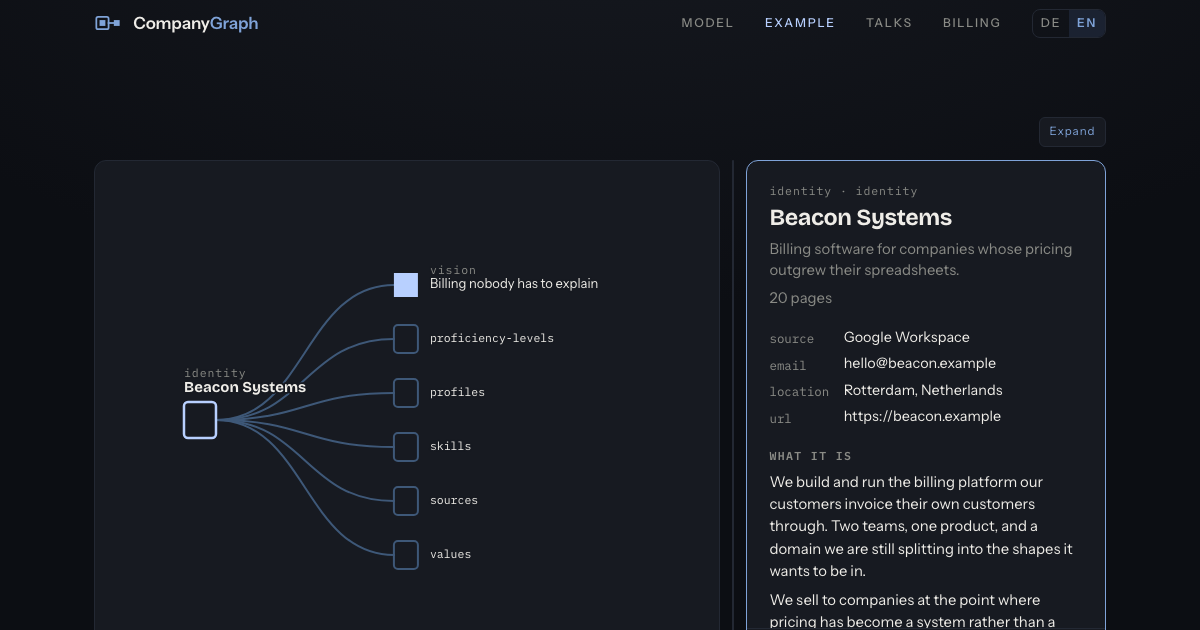
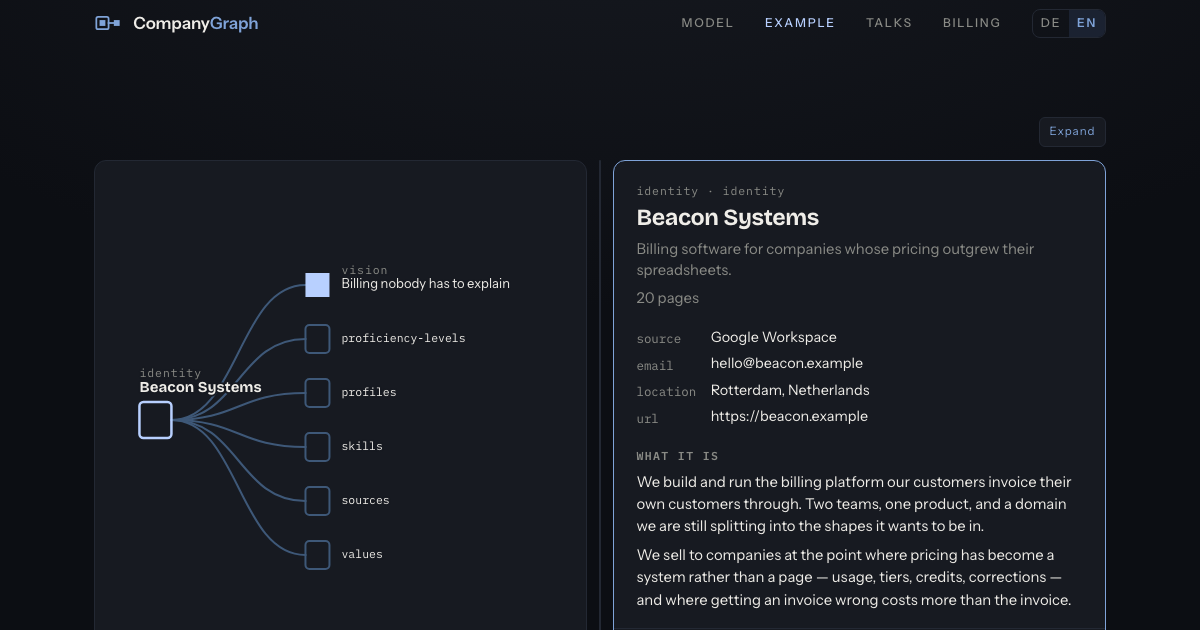
Open the stage even, and let the reader take it from there
The panes started at a fixed 360px, which was a width chosen for the narrowest
card the stage ever shows — a folder with a count and nothing else. A profile
claiming fifty-eight skills got the same column. Half and half instead: both
sides of the stage are shown at once and the reader moves the handle from
there, which is the only starting point that assumes nothing about what is
being looked at.

Computed from the box rather than stored as a number, so the page and the
dialog each open even without either knowing the other's size — and a
double-click returns to even rather than to a remembered constant. The
stylesheet declares the same split as `calc(50% - 13px)`, the chrome being the
handle and the grid's two gaps, so the first paint is already even instead of
360px for a frame and then a jump.

`divider` asserts the stage opens even and that a reset leaves it even, in
both boxes.

diff --git a/stage.js b/stage.js
@@ -660,17 +660,21 @@
   // the other: one number would be clamped to the page's maximum every time the dialog closed,
   // and the reader's choice in the wider box would be lost on the way back. The default
   // differs for the same reason.
-  var CARD = {
-    page:  { key: "cg-stage-card",       fallback: 360 },
-    modal: { key: "cg-stage-card-modal", fallback: 400 }
-  };
+  var CARD = { page: { key: "cg-stage-card" }, modal: { key: "cg-stage-card-modal" } };
   var CARD_MIN = 280, CANVAS_MIN = 320;
   function cardMode(){ return modal.contains(stageEl) ? CARD.modal : CARD.page; }
+  // Nothing stored means half the box, not a fixed width: the two panes start equal and the
+  // reader decides from there. It is computed from the box in hand rather than carried as a
+  // number, so the page and the dialog each open even without either knowing the other's size.
+  function evenCard(){
+    var stage = stageEl.getBoundingClientRect().width;
+    var chrome = stage - stageEl.querySelector(".canvas").getBoundingClientRect().width - cardWidth();
+    return (stage - chrome) / 2;
+  }
   function storedCard(){
-    var mode = cardMode();
     var n = null;
-    try { n = parseInt(localStorage.getItem(mode.key), 10); } catch (e) {}
-    return n || mode.fallback;
+    try { n = parseInt(localStorage.getItem(cardMode().key), 10); } catch (e) {}
+    return n || evenCard();
   }
   var gutter = document.getElementById("gutter");
   function cardWidth(){ return stageEl.querySelector(".card").getBoundingClientRect().width; }
@@ -717,9 +721,8 @@
     // Double-click restores the default and forgets the stored one, the way a devtools split
     // does — otherwise the only way back to the original is to drag until it looks right.
     gutter.addEventListener("dblclick", function(){
-      var mode = cardMode();
-      try { localStorage.removeItem(mode.key); } catch (e) {}
-      setCard(mode.fallback, false); render();
+      try { localStorage.removeItem(cardMode().key); } catch (e) {}
+      setCard(evenCard(), false); render();
     });
     gutter.addEventListener("keydown", function(ev){
       var step = ev.key === "ArrowLeft" ? 16 : ev.key === "ArrowRight" ? -16 : 0;

diff --git a/stage.css b/stage.css
@@ -15,7 +15,11 @@
   /* Three columns: canvas, the handle between them, details. The details width is a custom
      property so one line of script can move it and every layout that reads it follows —
      including the dialog, which is the same .stage element moved, not a second one. */
-  .stage{--card-w:360px; margin-top:.8rem; height:clamp(520px,62vh,720px); display:grid;
+  /* Half and half to begin with. The chrome between the panes is the handle plus the grid's
+     two gaps — 10 + 8 + 8 — so half of what is left is 50% minus 13px, and the script computes
+     the same number when it takes over. Declaring it here rather than only in the script means
+     the first paint is already even, instead of 360px for a frame and then a jump. */
+  .stage{--card-w:calc(50% - 13px); margin-top:.8rem; height:clamp(520px,62vh,720px); display:grid;
          grid-template-columns:minmax(0,1fr) 10px var(--card-w); gap:.5rem}
   .canvas{position:relative; overflow:hidden; border:1.5px solid var(--rule); border-radius:12px; background:var(--raise)}
   /* No cursor at rest. The primary act on this canvas is clicking a node, not dragging the
